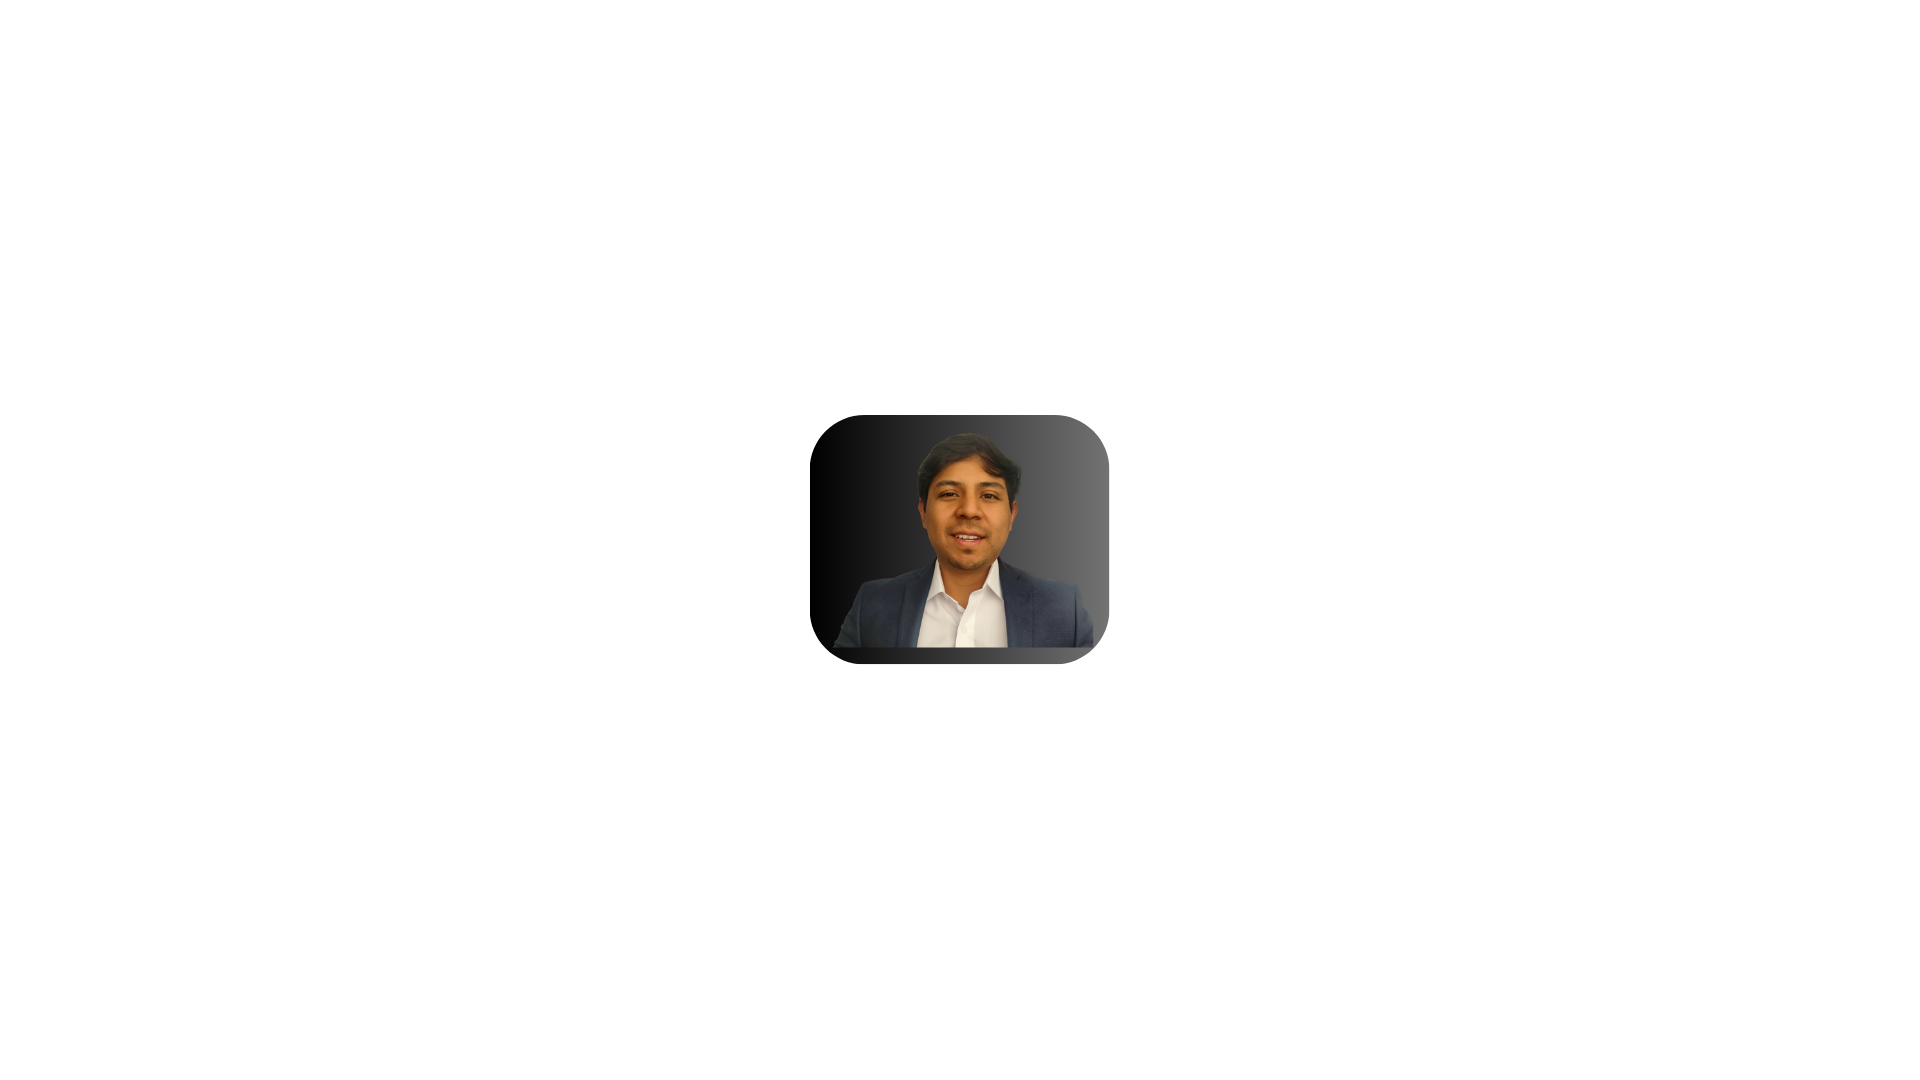
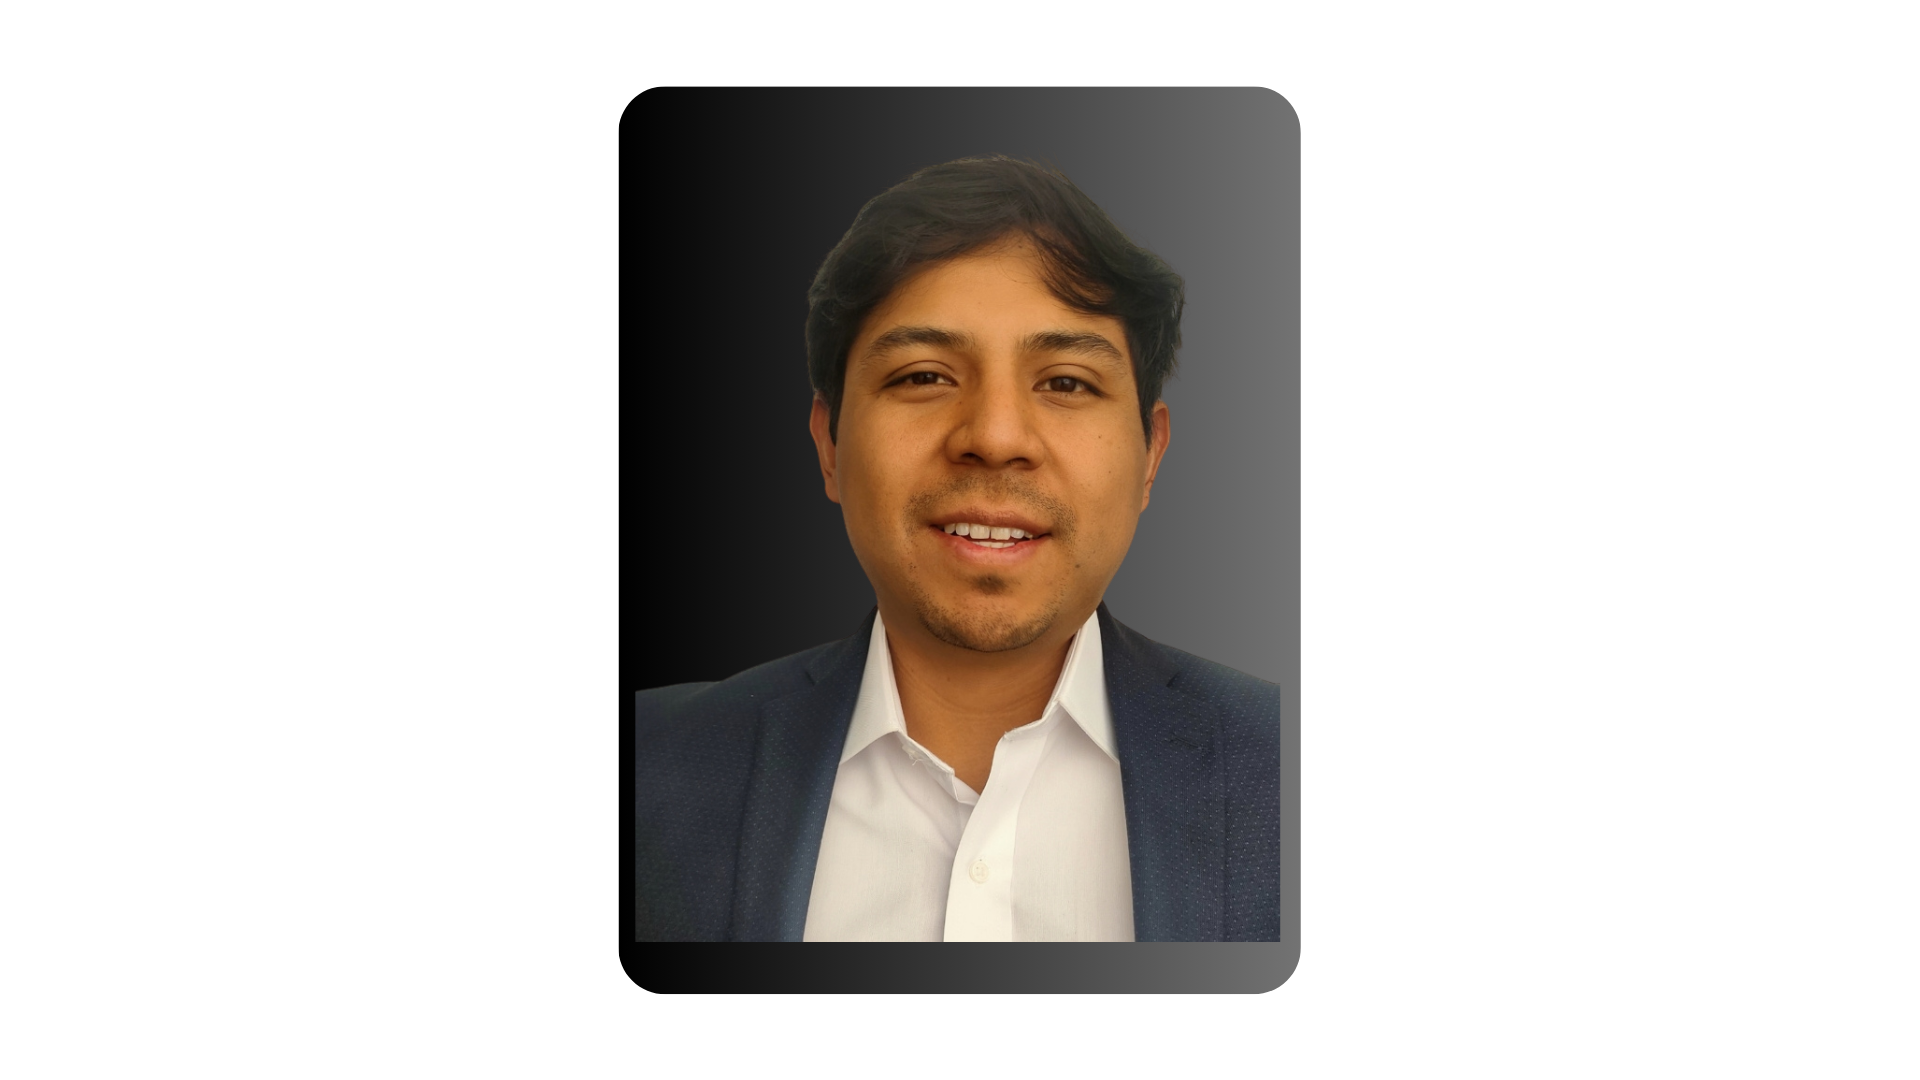
Se unifican imagenes

Changed region(s): [[0.3125, 0.0611, 0.6875, 0.9472]]

diff --git a/app.py b/app.py
@@ -2,7 +2,7 @@ import streamlit as st
 
 from src.settings import Settings
 from streamlit_option_menu import option_menu
-from side_bar import SideBar
+from src.side_bar import SideBar
 
 
 settings = Settings()
@@ -12,14 +12,15 @@ st.set_page_config(
     layout= 'wide', initial_sidebar_state= 'expanded'
  )
 
+
 # Sidebar
 with st.sidebar:
     
     # Instance Sidebar
     sb = SideBar()
     
-    st.title('Edgar Developer')
-    
+    st.title('EDGAR CASTRO')
+    sb.profile_picture()
     #Button download
     
     sb.download_cv()
@@ -32,7 +33,7 @@ with st.sidebar:
         default_index= 0
     )
     
-    sb.profile_picture()
+    
     
 # Selected page
 

diff --git a/src/side_bar.py b/src/side_bar.py
@@ -24,7 +24,7 @@ class SideBar:
             st.download_button(
                 label= 'resume PDF',
                 data= cv,
-                file_name= 'EdgarCastro.PDF',
+                file_name= 'CV_EdgarCastro.PDF',
                 mime='application/octer-stream',
                 use_container_width=True
             )
